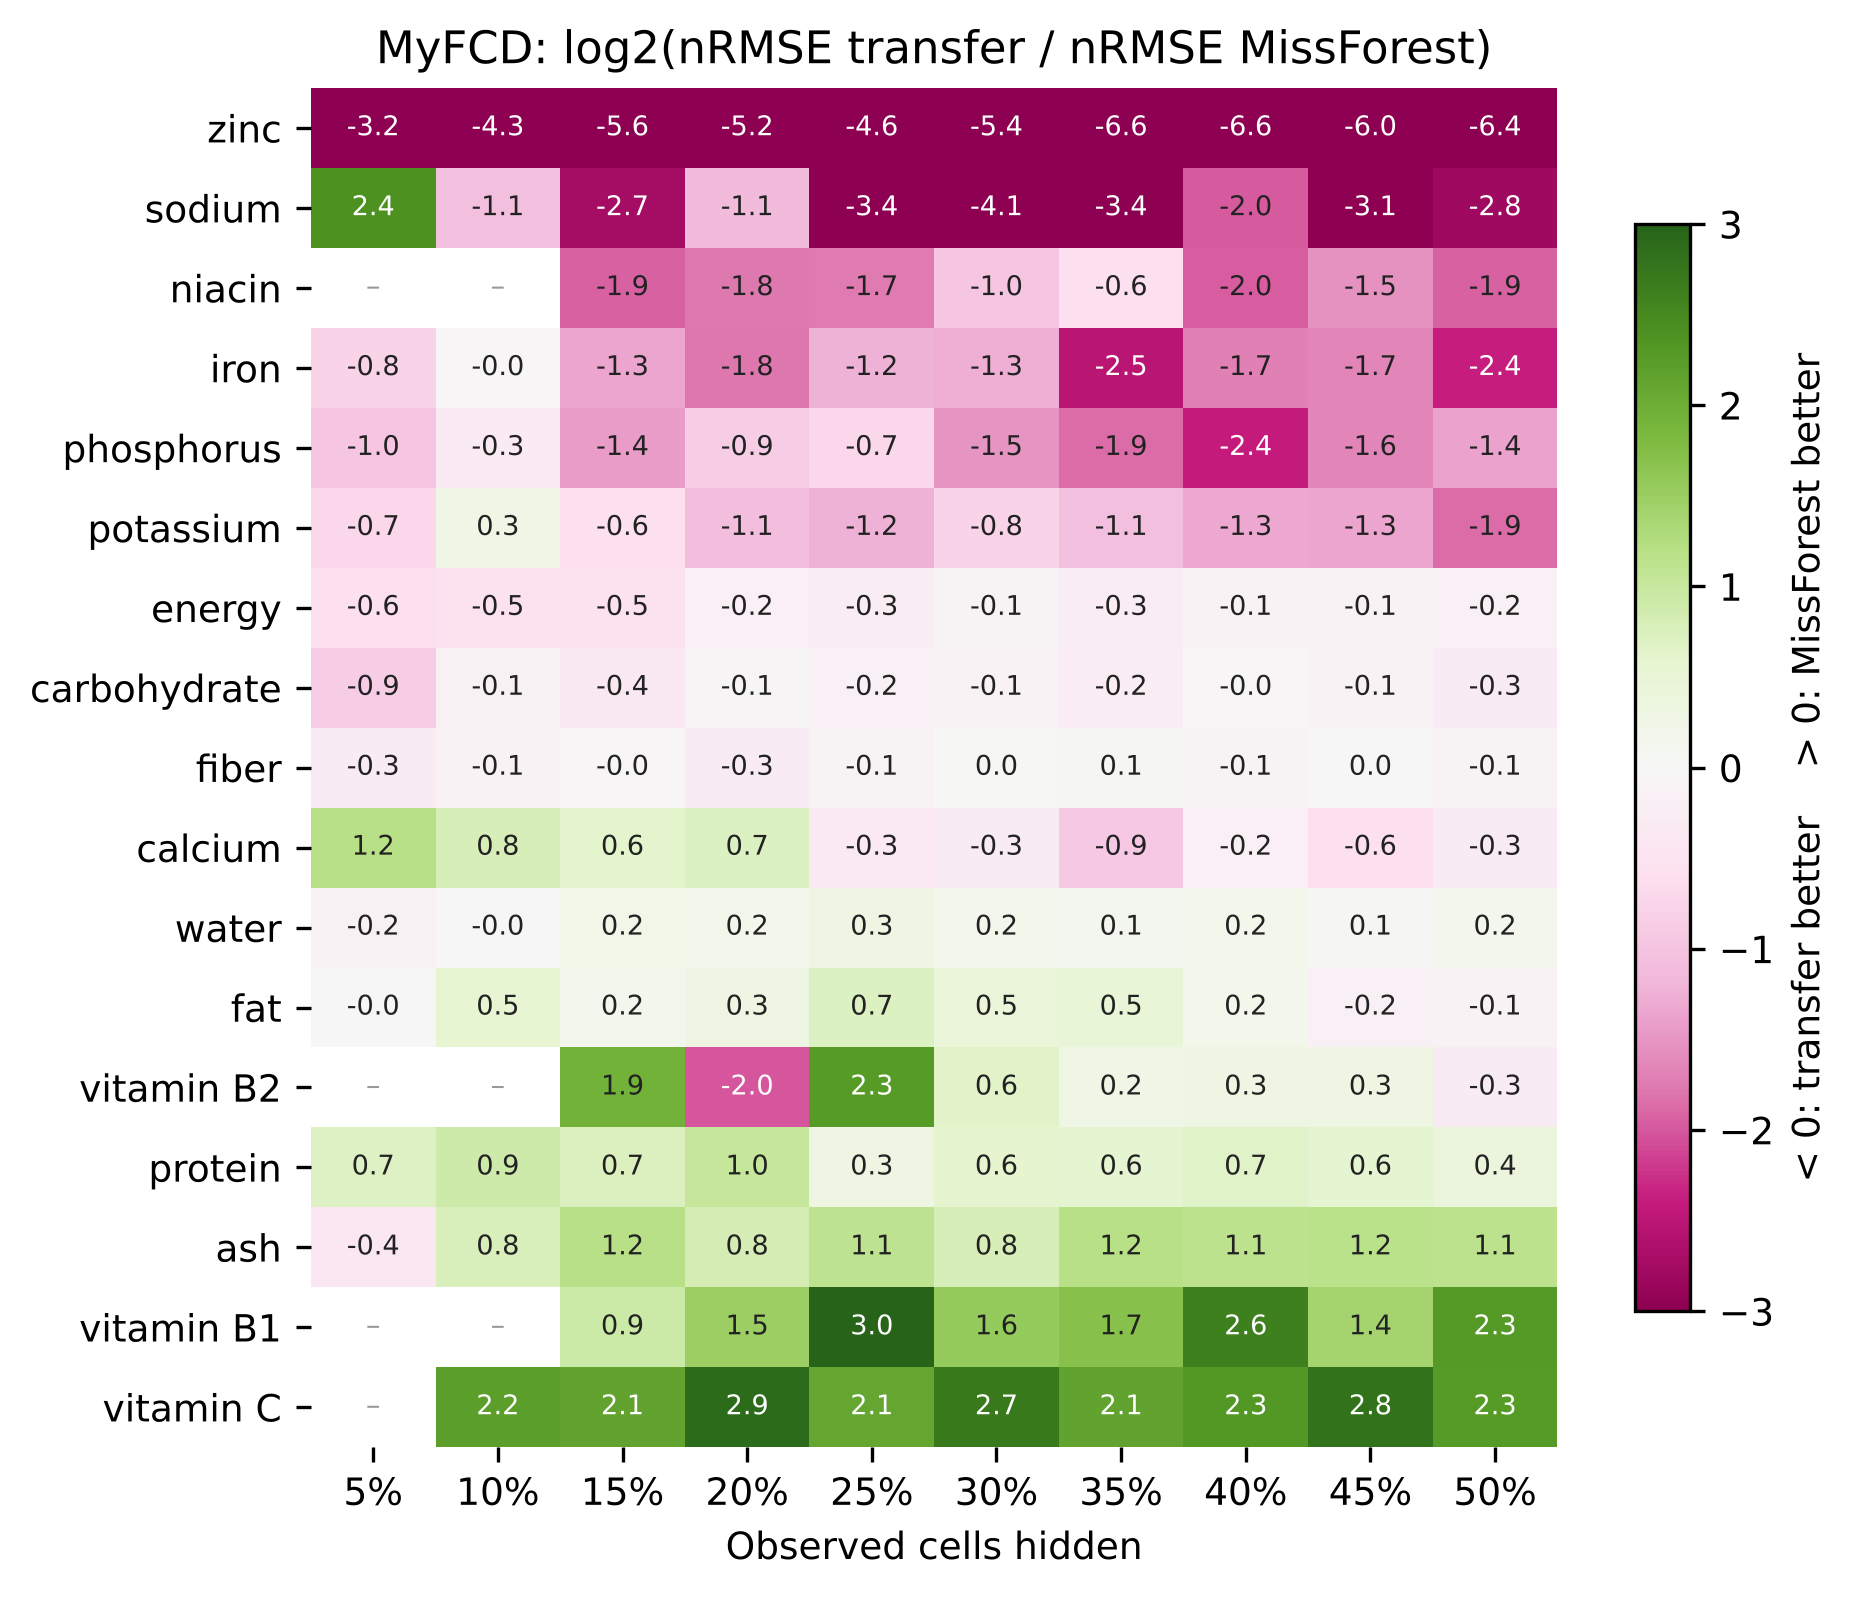
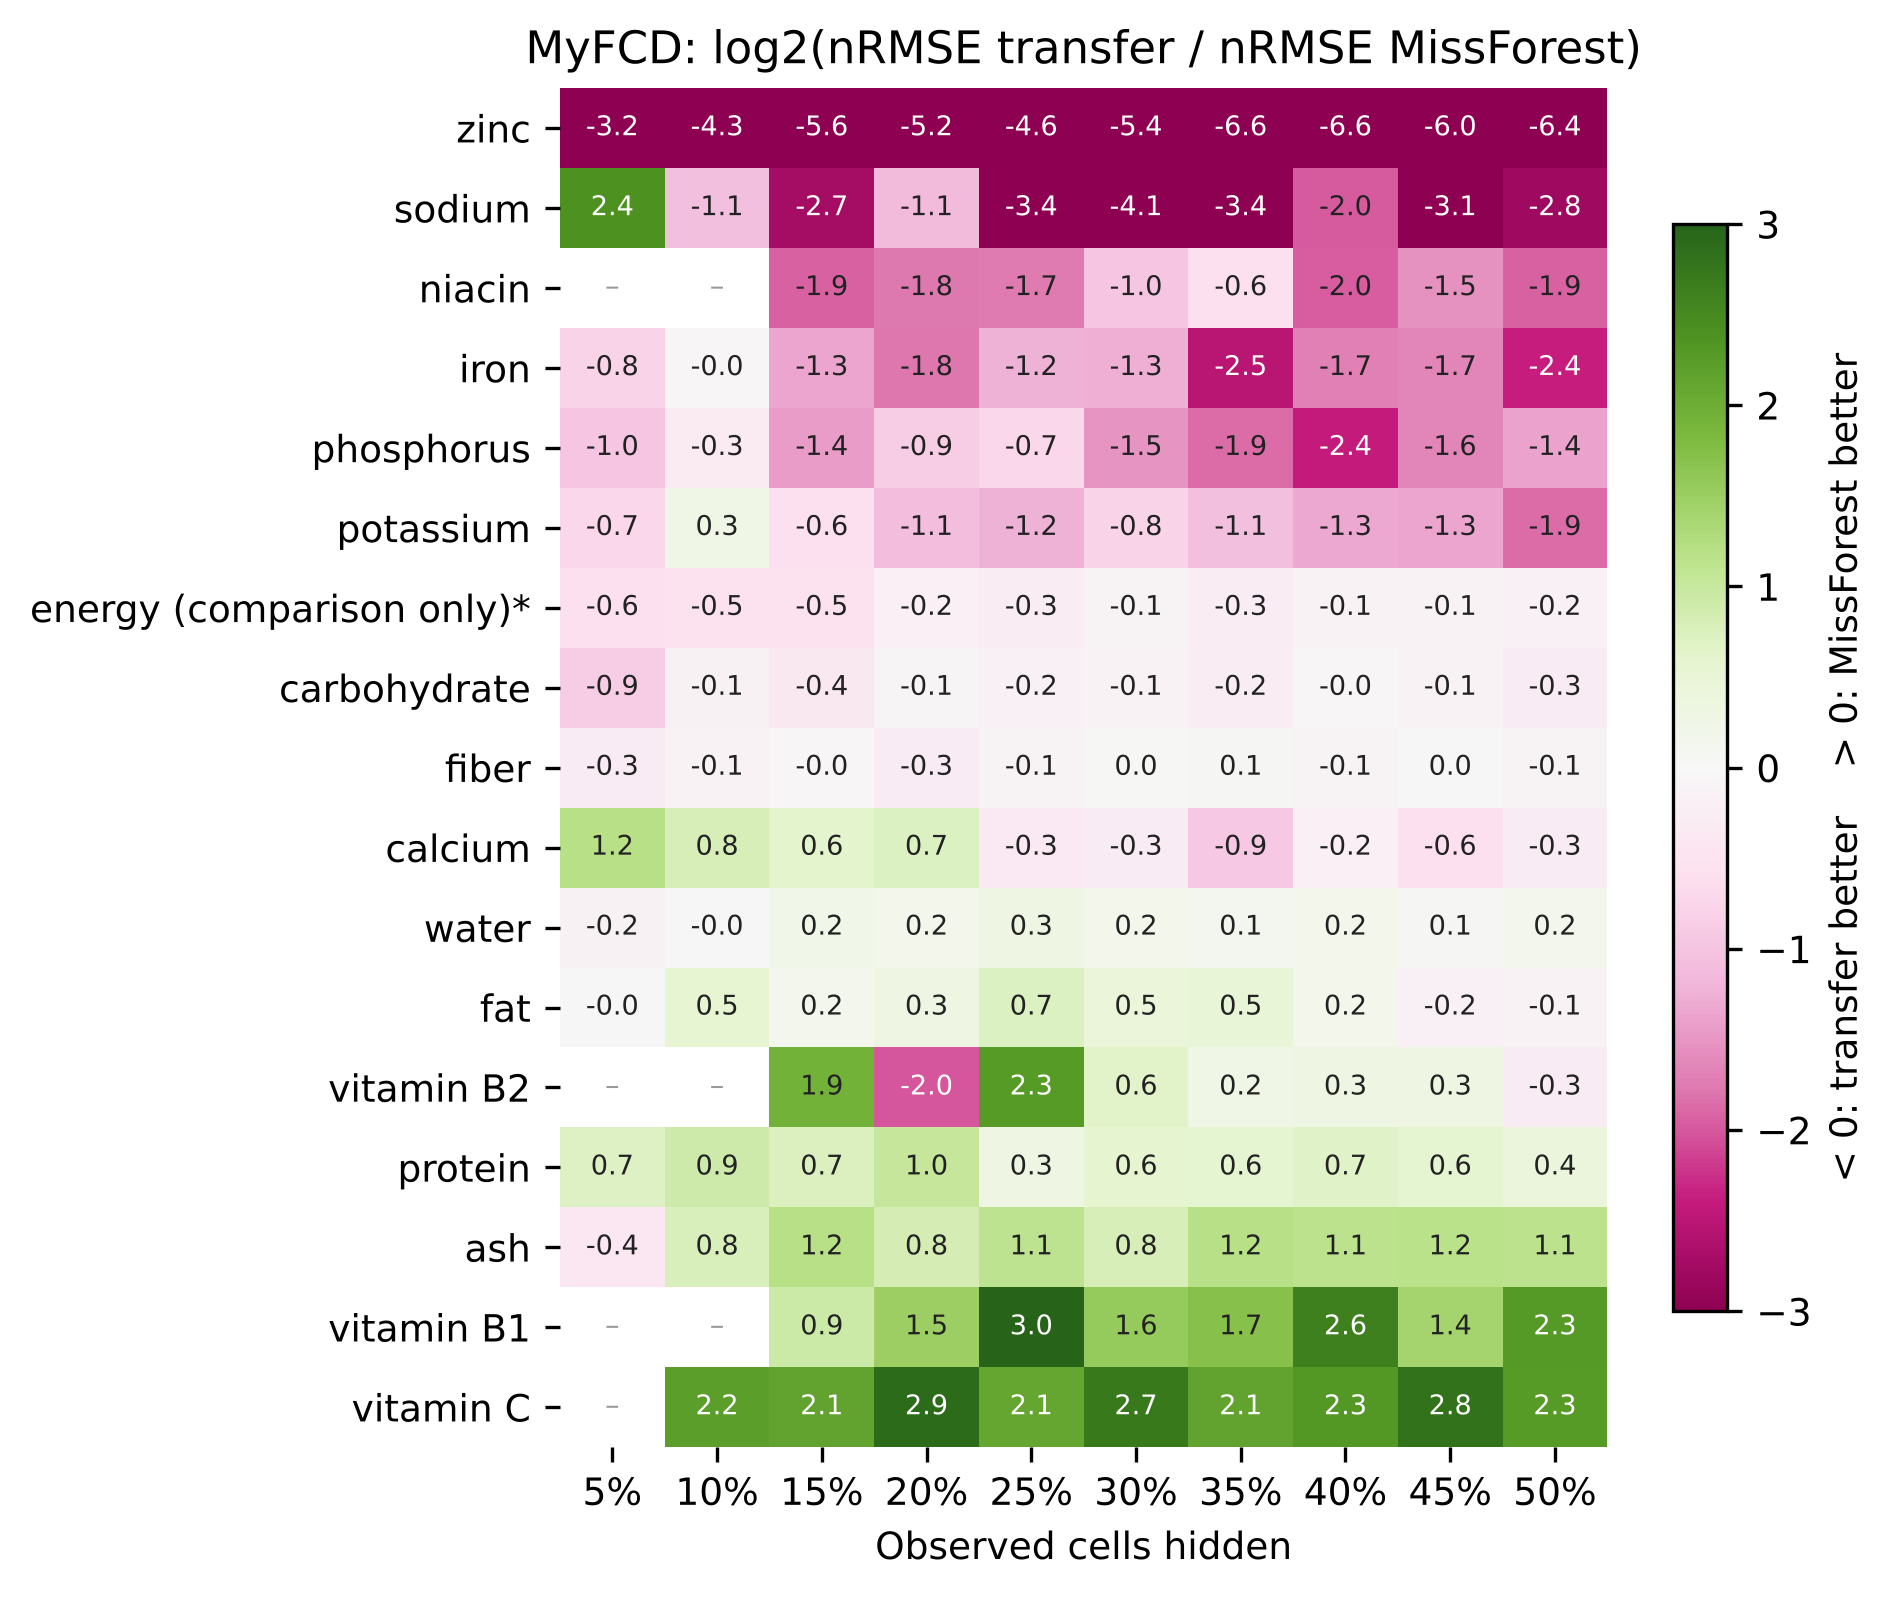
Mark the energy row of the transfer heatmap as comparison only
Energy is calculated with Atwater factors (TKPI guideline), never imputed,
so transfer is not used for it.

Claude-Session: https://claude.ai/code/session_01G92YoWqryuoezV8J3TMRCr

diff --git a/scripts/plot_masking_sweep.py b/scripts/plot_masking_sweep.py
@@ -31,6 +31,13 @@ MARKER = {"mean": "o", "group_median": "s", "knn": "^", "mice": "v", "softimpute
 plt.rcParams.update({"font.family": "DejaVu Sans", "font.size": 9, "axes.spines.top": False, "axes.spines.right": False})
 
 
+def label_nutrient(column: str) -> str:
+    """Row label for the heatmap; energy is calculated (Atwater), so its row is a comparison only."""
+    if column == "energy_kcal":
+        return "energy (comparison only)*"
+    return column.rsplit("_", 1)[0].replace("_", " ").replace("vitamin b", "vitamin B").replace("vitamin c", "vitamin C")
+
+
 def lines(ax, part: pd.DataFrame, methods: list[str], ylim=None) -> None:
     for method in methods:
         m = part[part["method"] == method].sort_values("fraction")
@@ -101,7 +108,7 @@ def main() -> int:
                 ax.text(j, i, f"{v:.1f}", ha="center", va="center", fontsize=6.5,
                         color="white" if abs(v) > 2 else "#222222")
     ax.set_xticks(range(ratio.shape[1]), [f"{f:.0%}" for f in ratio.columns])
-    ax.set_yticks(range(ratio.shape[0]), [n.rsplit("_", 1)[0].replace("_", " ").replace("vitamin b", "vitamin B").replace("vitamin c", "vitamin C") for n in ratio.index])
+    ax.set_yticks(range(ratio.shape[0]), [label_nutrient(n) for n in ratio.index])
     ax.set_xlabel("Observed cells hidden")
     ax.set_title("MyFCD: log2(nRMSE transfer / nRMSE MissForest)")
     ax.spines[:].set_visible(False)
